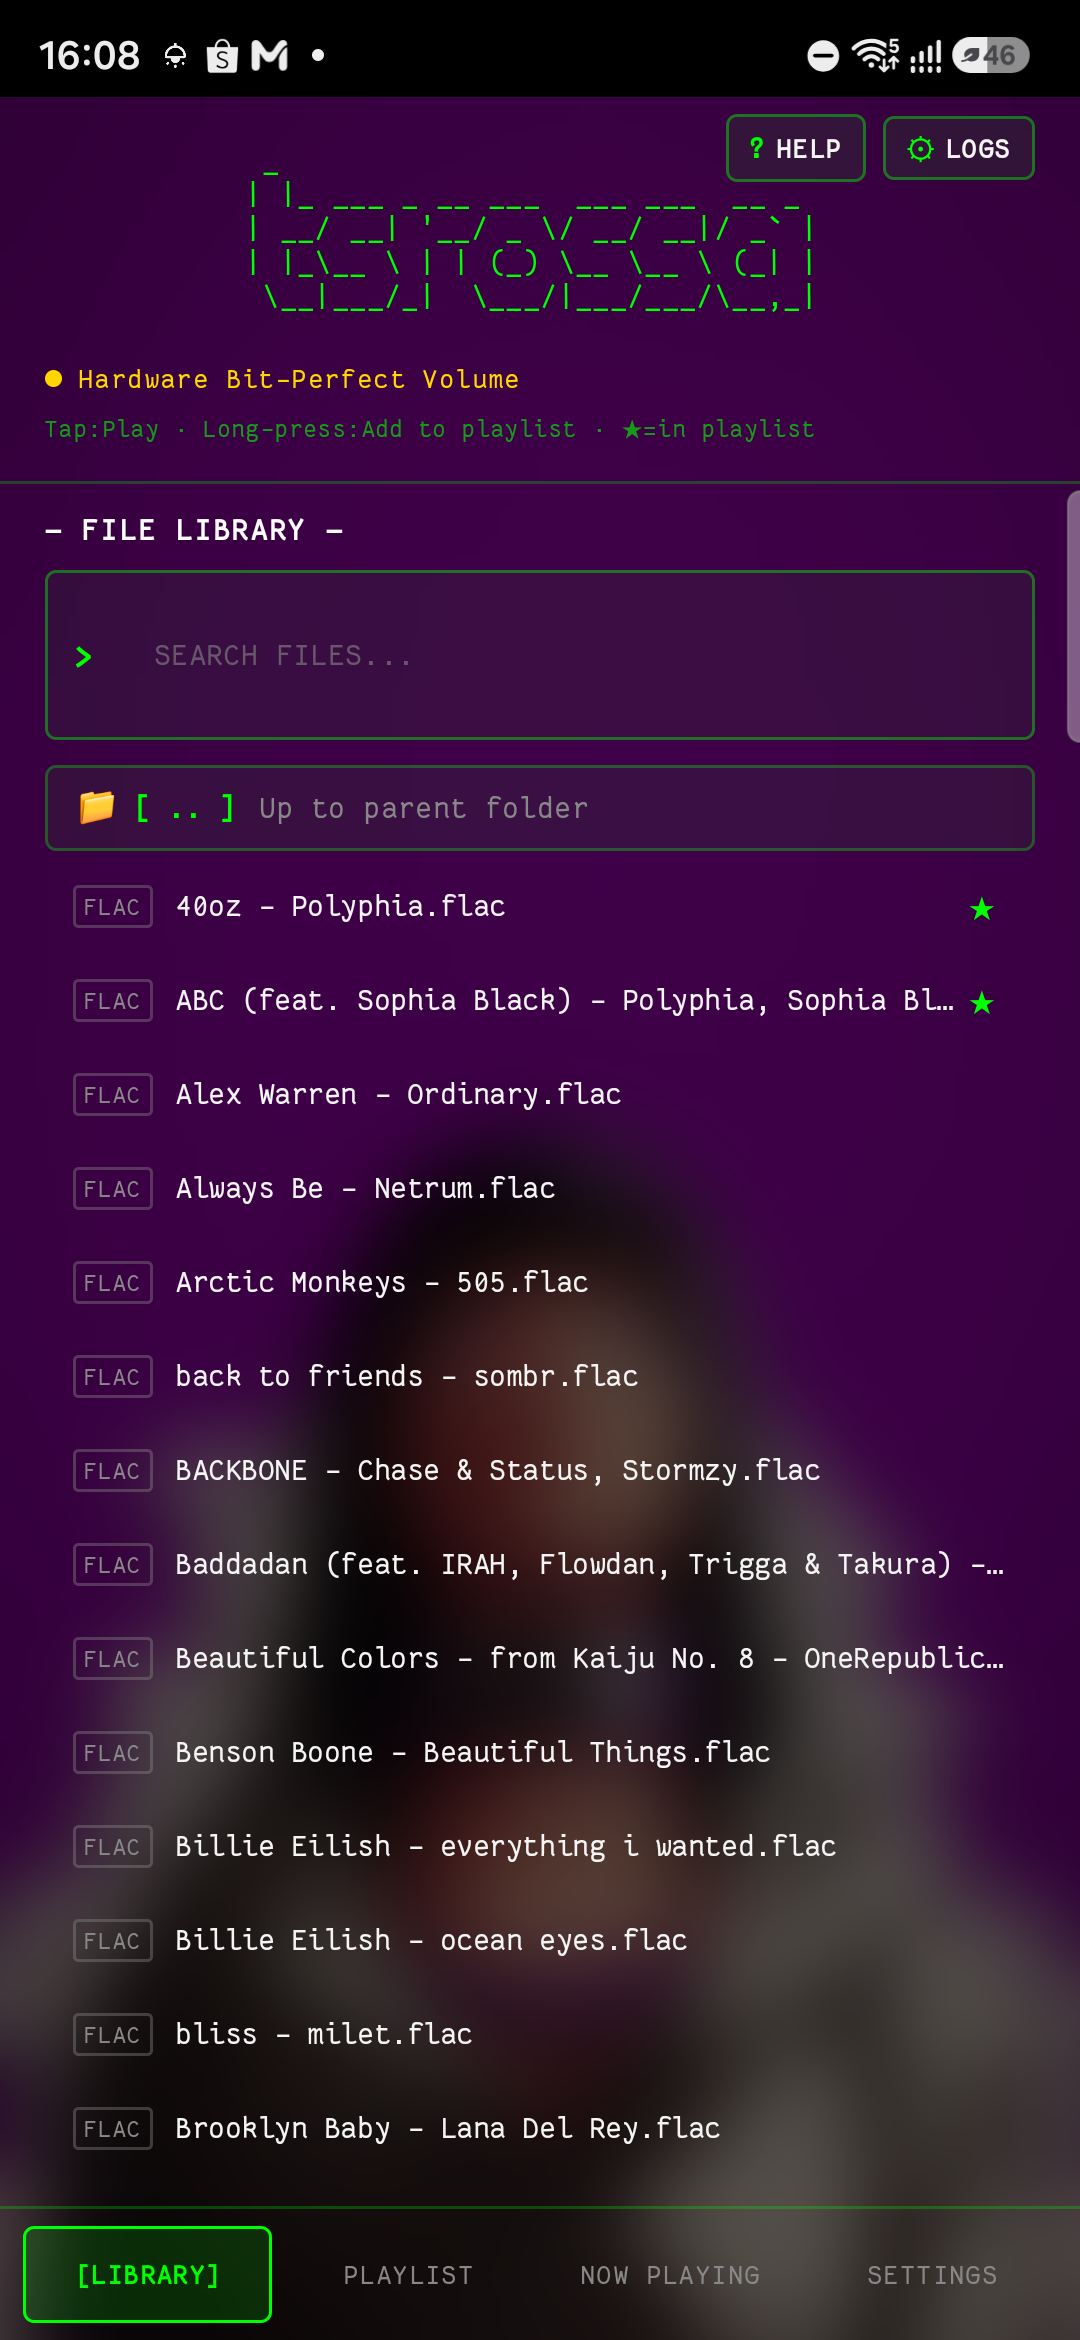
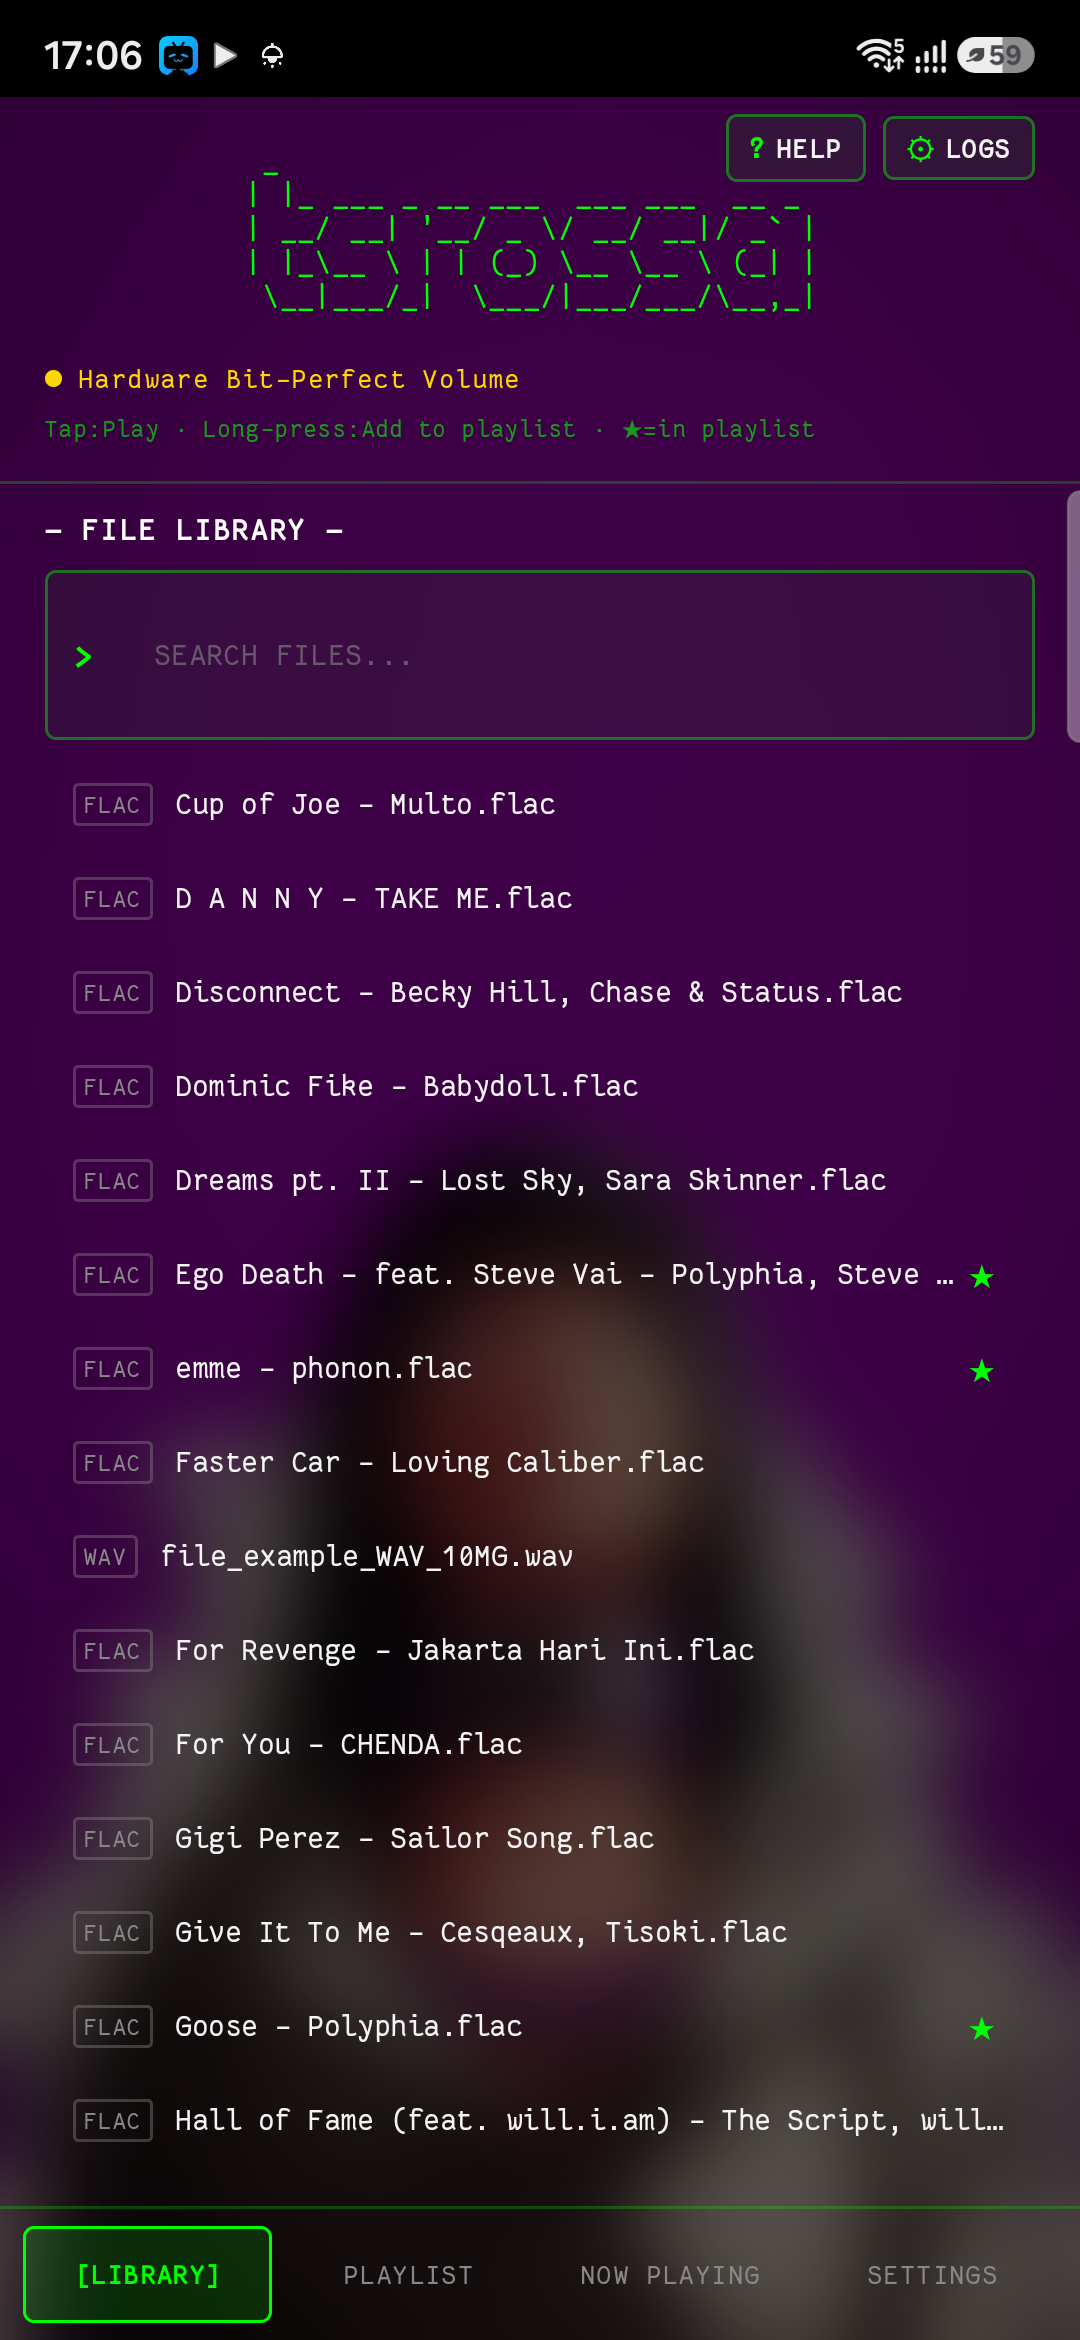
docs: update screenshots gallery with Beta 1 features (WAV playback, MediaStyle notification, and Diagnostics export)

diff --git a/README.md b/README.md
@@ -76,8 +76,20 @@ The latest signed, production-ready release is available directly in this reposi
   <tr>
     <td align="center" width="50%">
       <img src="screenshots/01_now_playing.png" alt="Now Playing Screen" width="100%"/>
-      <br/><b>Now Playing Screen</b><br/>
-      <i>Dynamic album palette, ASCII waveform progress bar, 32-bit hardware volume, shuffle, repeat, and queue controls.</i>
+      <br/><b>Now Playing Screen (FLAC Playback)</b><br/>
+      <i>Dynamic album palette, codec format badge [FLAC], ASCII waveform progress bar, 32-bit hardware volume, shuffle, repeat, and queue controls.</i>
+    </td>
+    <td align="center" width="50%">
+      <img src="screenshots/10_wav_playback.png" alt="WAV Playback Screen" width="100%"/>
+      <br/><b>Uncompressed WAV Bit-Perfect Playback</b><br/>
+      <i>Direct bit-perfect streaming of raw Linear PCM / IEEE Float WAV files with dedicated [WAV] codec badge and real-time progress bar.</i>
+    </td>
+  </tr>
+  <tr>
+    <td align="center" width="50%">
+      <img src="screenshots/03_library.png" alt="Library Browser" width="100%"/>
+      <br/><b>Storage Library Browser (Multi-Codec)</b><br/>
+      <i>Folder navigation, live search filter, dynamic codec badges ([WAV] & [FLAC]), and star indicators (★) for playlist items.</i>
     </td>
     <td align="center" width="50%">
       <img src="screenshots/02_playlist.png" alt="Playlist Screen" width="100%"/>
@@ -87,26 +99,14 @@ The latest signed, production-ready release is available directly in this reposi
   </tr>
   <tr>
     <td align="center" width="50%">
-      <img src="screenshots/03_library.png" alt="Library Browser" width="100%"/>
-      <br/><b>Storage Library Browser</b><br/>
-      <i>Subfolder navigation, live search filter, star indicators (★) for items already in playlist, and instant FLAC scanner.</i>
-    </td>
-    <td align="center" width="50%">
-      <img src="screenshots/04_settings.png" alt="Settings Screen" width="100%"/>
-      <br/><b>Settings & Preferences</b><br/>
-      <i>Background style (Solid Black vs. Blurred Wallpaper), Accent Color Mode (Dynamic vs. Fixed), Font Scale, and Haptic feedback.</i>
-    </td>
-  </tr>
-  <tr>
-    <td align="center" width="50%">
       <img src="screenshots/05_system_logs.png" alt="System Logs & Diagnostics" width="100%"/>
-      <br/><b>System Logs & Live Diagnostics</b><br/>
-      <i>Real-time DAC telemetry (VID/PID, claimed interfaces, sample rates, bit depths, RAM buffer state, and DAC release button).</i>
+      <br/><b>System Logs & Live Diagnostics (Copy & Share)</b><br/>
+      <i>Real-time DAC telemetry, Bit-Perfect verification, hardware clock negotiation, [📋 COPY] to clipboard, and [↗ SHARE] export.</i>
     </td>
     <td align="center" width="50%">
-      <img src="screenshots/06_help_manual.png" alt="Help User Manual" width="100%"/>
-      <br/><b>tsrossa User Manual (Help)</b><br/>
-      <i>In-app user documentation detailing bit-perfect audio streaming, volume dot indicators, transport shortcuts, and queue mechanics.</i>
+      <img src="screenshots/09_mediastyle_notification.png" alt="MediaStyle Notification" width="100%"/>
+      <br/><b>MediaStyle Notification & Lockscreen Player</b><br/>
+      <i>Interactive notification drawer & lockscreen player with dynamic Play/Pause toggle, Previous/Next transport controls, and album art.</i>
     </td>
   </tr>
   <tr>
@@ -119,6 +119,18 @@ The latest signed, production-ready release is available directly in this reposi
       <img src="screenshots/08_track_options.png" alt="Track Options Menu" width="100%"/>
       <br/><b>Long-Press Track Options Menu</b><br/>
       <i>Haptic long-press context modal: Play Now, Play Next, Add to Queue, and Remove from Playlist.</i>
+    </td>
+  </tr>
+  <tr>
+    <td align="center" width="50%">
+      <img src="screenshots/04_settings.png" alt="Settings Screen" width="100%"/>
+      <br/><b>Settings & Preferences</b><br/>
+      <i>Background style (Solid Black vs. Blurred Wallpaper), Accent Color Mode (Dynamic vs. Fixed), Font Scale, and Haptic feedback.</i>
+    </td>
+    <td align="center" width="50%">
+      <img src="screenshots/06_help_manual.png" alt="Help User Manual" width="100%"/>
+      <br/><b>tsrossa User Manual (Help)</b><br/>
+      <i>In-app user documentation detailing bit-perfect audio streaming, volume dot indicators, transport shortcuts, and queue mechanics.</i>
     </td>
   </tr>
 </table>
